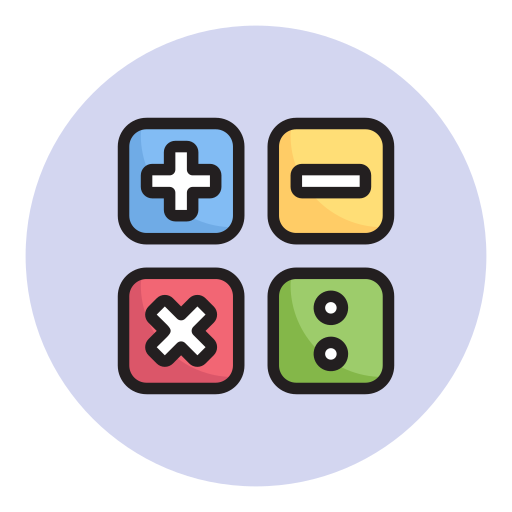
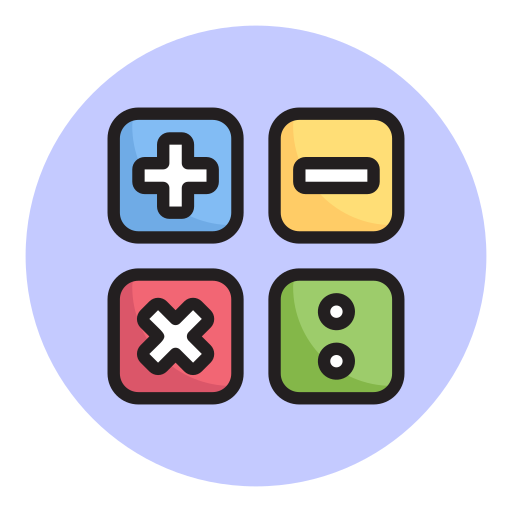
"actualizacion de los iconos del menu principal: operaciones matematicas y operaciones con agrupacion"

Changed region(s): [[0.1875, 0.1875, 0.8125, 0.8125]]

diff --git a/src/pages/Home.js b/src/pages/Home.js
@@ -1,7 +1,7 @@
 import React from "react";
 import { useNavigate } from "react-router-dom";
 import { Particles } from "@tsparticles/react";
-import operaciones from "../assets/Image/operaciones.png";
+import operaciones from "../assets/Image/matematicas.png";
 import "../styles/Home.css";
 import agrupacion from "../assets/Image/agrupacion.png";
 
